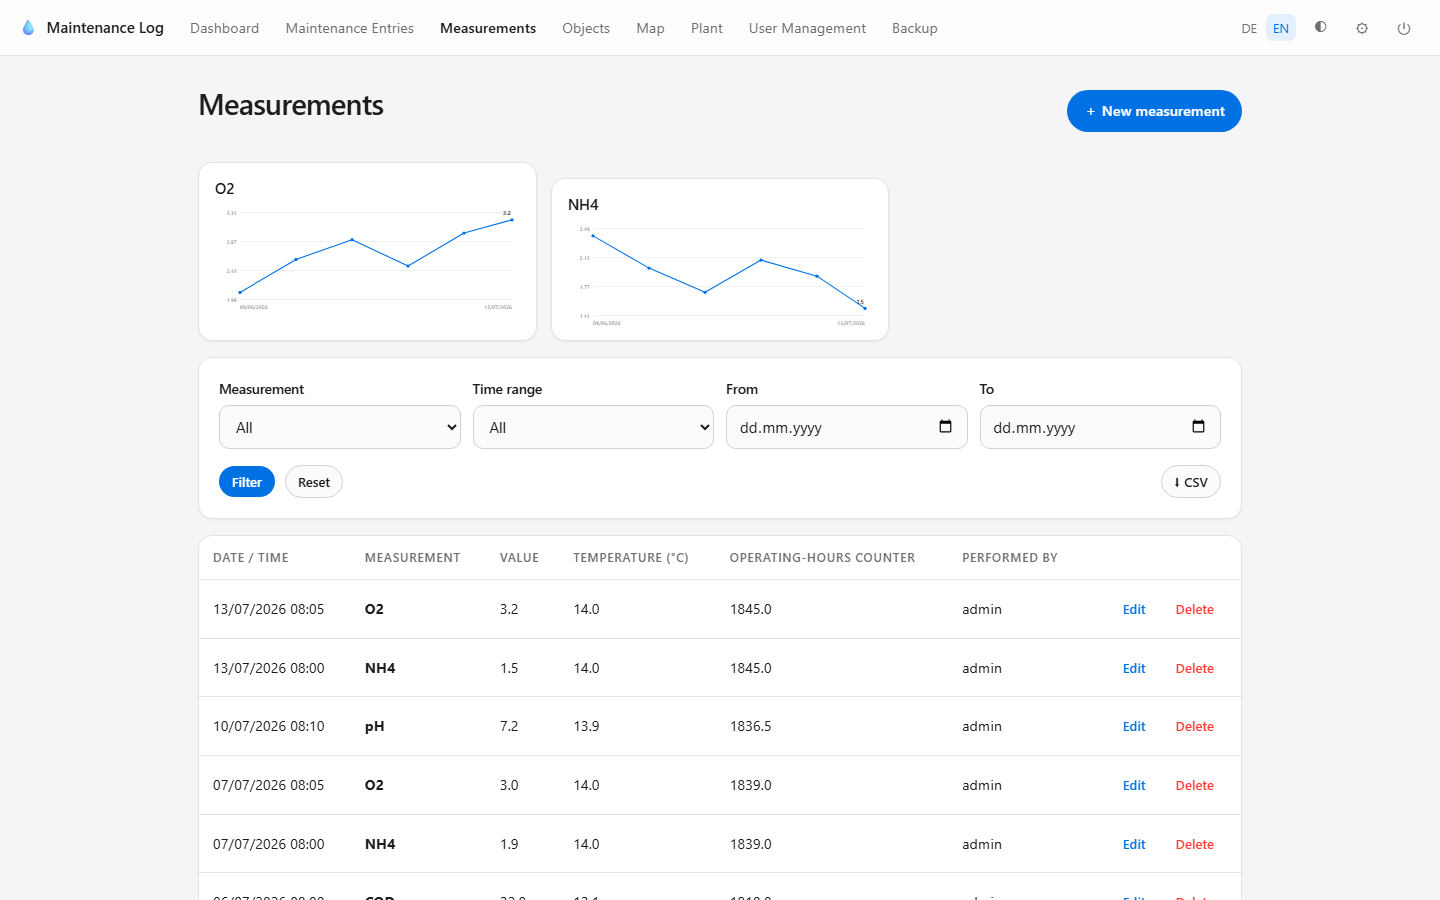
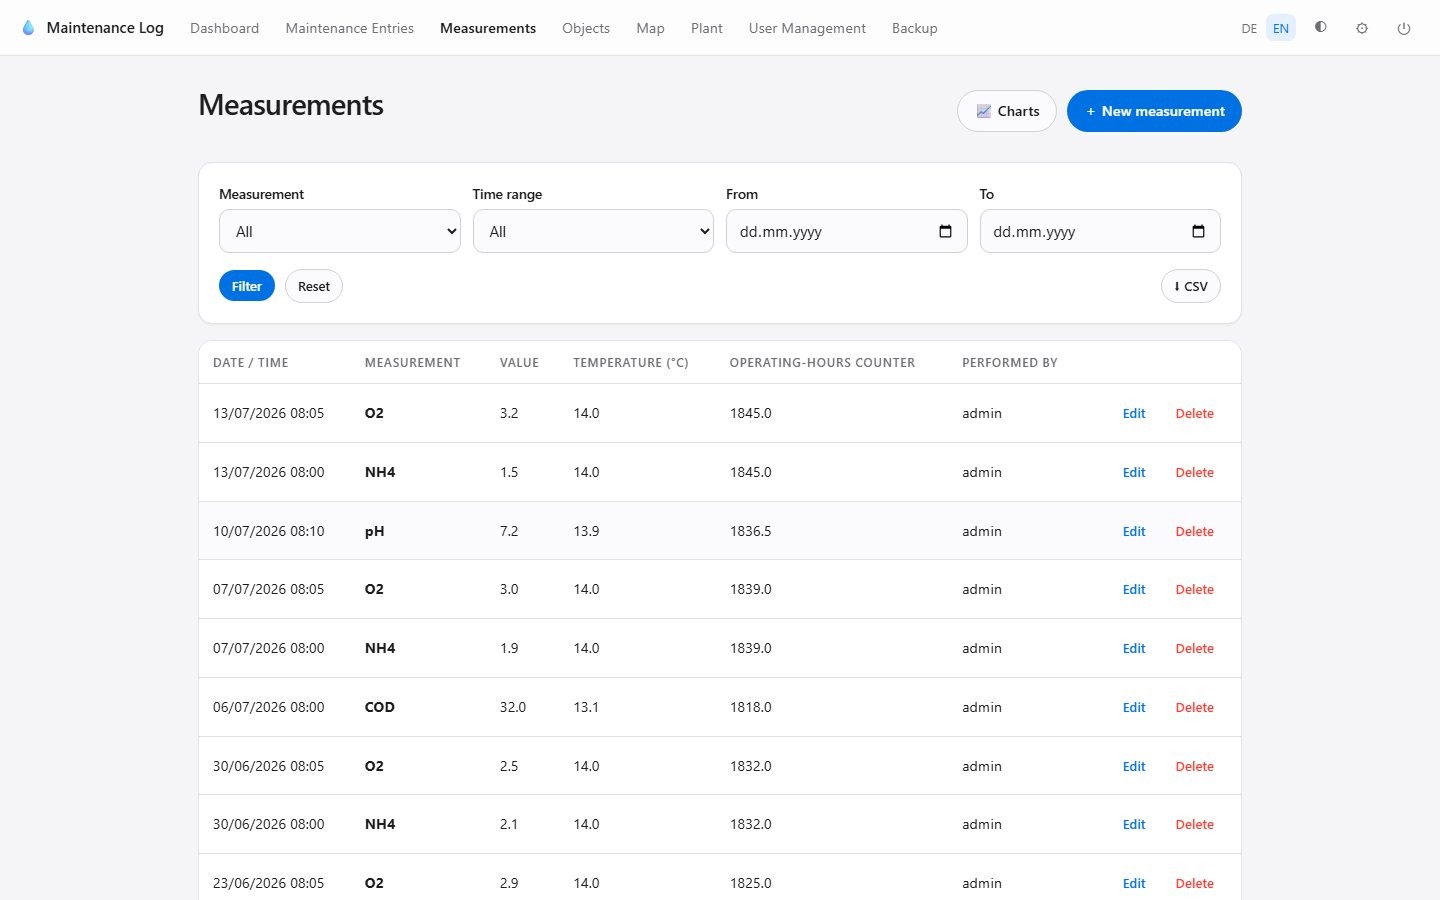
docs: document the dedicated measurement charts page
Update README feature list, add a charts screenshot and refresh the
measurements/objects screenshots.

diff --git a/README.md b/README.md
@@ -17,8 +17,9 @@ no external CDN, no API keys.
   description, notes, comment, mandatory **operating-hours counter** reading
   and **multiple image uploads** per entry.
 - **Measurements** — log process values (e.g. NH4, O2, pH) with value,
-  temperature and operating-hours counter; self-building parameter list,
-  per-parameter **trend charts** and a recent-measurements card on the dashboard.
+  temperature and operating-hours counter; self-building parameter list and a
+  recent-measurements card on the dashboard. A dedicated **charts page** draws
+  per-parameter **trend charts** with its own parameter and time-range filter.
 - **Self-building activity list** — new activities are stored automatically the
   first time you type them; the most recently used ones sort to the top.
 - **History & filters** — newest first, **paginated** (25/page), filter by
@@ -65,13 +66,17 @@ no external CDN, no API keys.
 |---------------------|--------------|
 | ![History](docs/screenshots/entry.png) | ![Measurements](docs/screenshots/measurements.png) |
 
-| Map view with pipes | Object management |
-|---------------------|-------------------|
-| ![Map](docs/screenshots/map.png) | ![Objects](docs/screenshots/assets.png) |
+| Measurement charts | Map view with pipes |
+|--------------------|---------------------|
+| ![Charts](docs/screenshots/measurements-charts.png) | ![Map](docs/screenshots/map.png) |
 
-| Plant & PDF report | Dark mode |
-|--------------------|-----------|
-| ![Plant](docs/screenshots/plant.png) | ![Dark mode](docs/screenshots/dashboard-dark.png) |
+| Object management | Plant & PDF report |
+|-------------------|--------------------|
+| ![Objects](docs/screenshots/assets.png) | ![Plant](docs/screenshots/plant.png) |
+
+**Dark mode** — a persistent dark theme across the whole app:
+
+![Dark mode](docs/screenshots/dashboard-dark.png)
 
 ---
 
@@ -246,7 +251,8 @@ Selbst gehostetes **Kläranlagen-Wartungsbuch** für die Anlage, ihre Schächte
 und Anschlüsse — ausgelegt für den Betrieb in einem **Proxmox-LXC-Container**.
 
 **Funktionen:** Wartungseinträge mit Bildern und Betriebsstunden-Zählerstand ·
-**Messwerte** (z. B. NH4) mit Temperatur, Zählerstand und **Verlaufsdiagrammen** ·
+**Messwerte** (z. B. NH4) mit Temperatur und Zählerstand samt eigener
+**Diagramm-Seite** mit Verlaufskurven ·
 selbstlernende Tätigkeiten- und Messungs-Dropdowns · paginierte Listen mit
 Filter (Zeitbereich, Objekt, Tätigkeit, Volltext) und **CSV-Export** ·
 Objektverwaltung mit **Wartungsintervall** (nächste Wartung wird automatisch